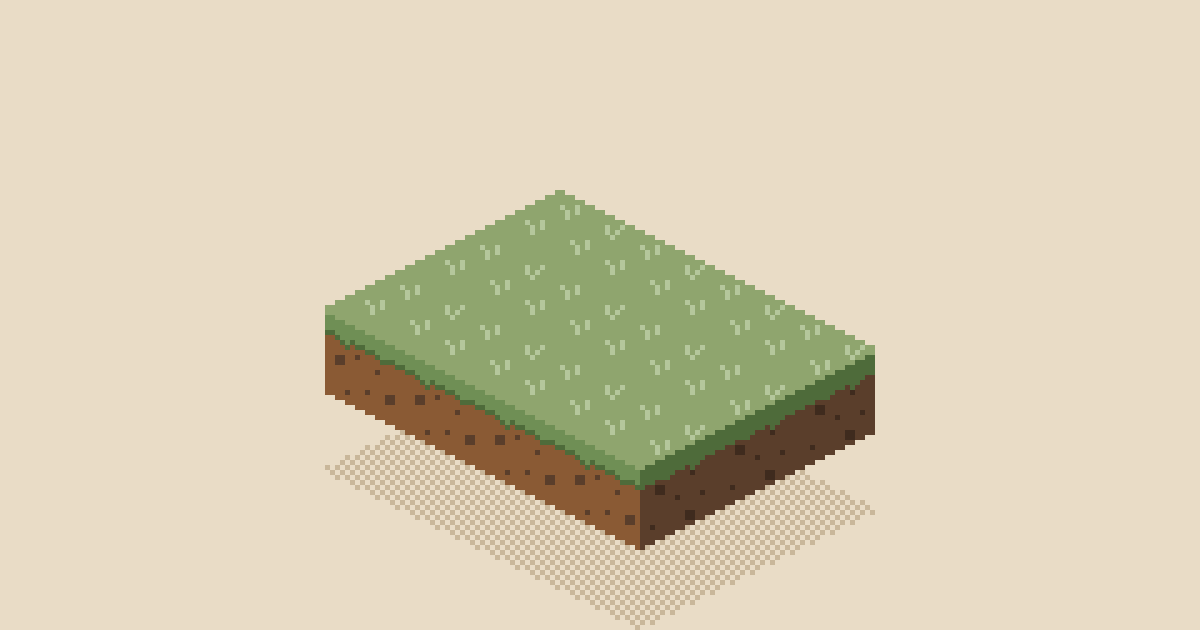
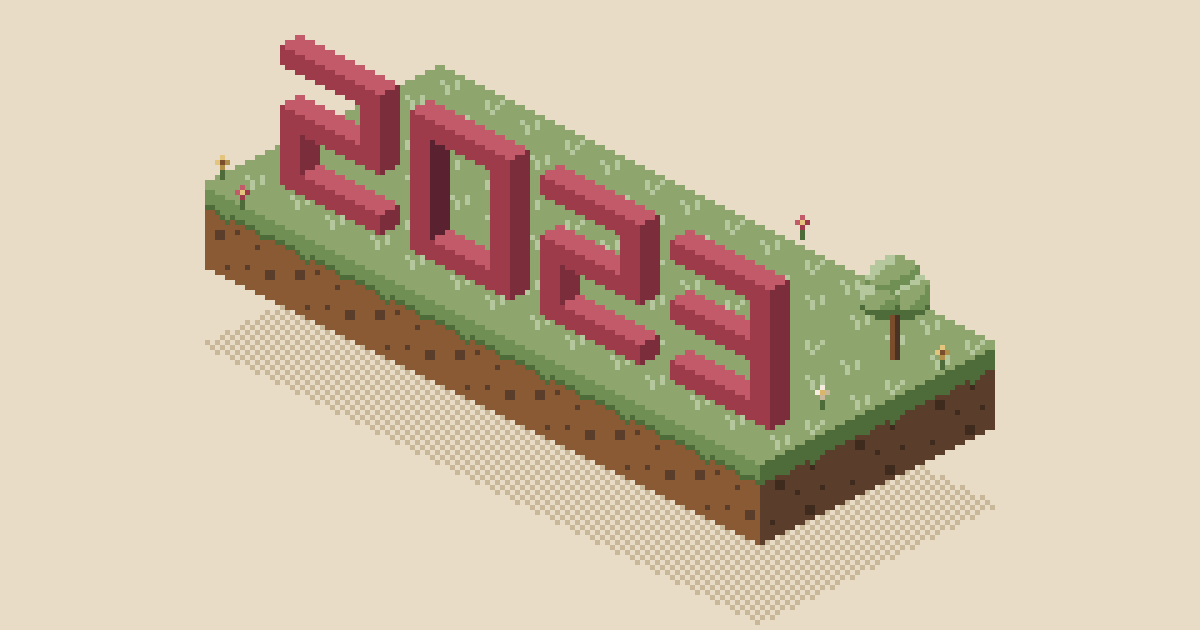
Draw the 2023 thumbnail and give every thumbnail a descriptive alt text
Claude-Session: https://claude.ai/code/session_01JAdJk87by9ULw3To2GaDwS

diff --git a/src/content/posts/2019-04-28-rest-in-a-nutshell.md b/src/content/posts/2019-04-28-rest-in-a-nutshell.md
@@ -3,7 +3,7 @@ title: REST in a Nutshell
 tags: REST architecture
 categories: architecture
 featured-image: /public/thumbnails/rest.png
-featured-image-alt: rest abstract feature
+featured-image-alt: A small floating stone plaza where two dark round clients each connect by a pale dashed road to one large red server building with a grid of lit windows.
 ---
 
 Years ago, the world wide web was simply a publishing platform where we were able to read and share documents through browsers. The web we now know has grown into something more than that. We can now search for information, book flights, make payments, and even automate our homes - basically any process we can think of. In other words, the web has grown into the largest application platform we've ever known.

diff --git a/src/content/posts/2020-12-12-collecting-and-monitoring-application-metrics-with-elastic-search-logstash-kibana-and-filebeat-ELK.md b/src/content/posts/2020-12-12-collecting-and-monitoring-application-metrics-with-elastic-search-logstash-kibana-and-filebeat-ELK.md
@@ -3,7 +3,7 @@ title: Collecting and Monitoring Application Metrics with Elasticsearch, Logstas
 tags: elasticsearch logstash kibana ELK
 categories: monitoring
 featured-image: /public/thumbnails/elk.png
-featured-image-alt: elk abstract feature
+featured-image-alt: A small dark server rack on a floating island of brown ore ground, linked by a red cable to a large red-framed dashboard showing a colorful bar chart, with a mine cart and gold ore nearby.
 description: Application metric is an important data point when it comes to working with production software. The ELK stack should help us efficiently collect these application metrics.
 ---
 

diff --git a/src/content/posts/2020-12-19-documenting-aspnet-core-3.1-api-projects-code-first-with-nswag.md b/src/content/posts/2020-12-19-documenting-aspnet-core-3.1-api-projects-code-first-with-nswag.md
@@ -3,7 +3,7 @@ title: Documenting ASP.NET Core 3.1 API Projects Code-First with NSwag
 tags: asp.net nswag swagger openapi
 categories: documentation
 featured-image: /public/thumbnails/nswag.png
-featured-image-alt: asp.net nswag abstract feature
+featured-image-alt: A tall stack of red slabs with a dark one in the middle, like collapsed and expanded API endpoints, on a floating wooden-floored island with a lectern and a bookcase.
 description: How to setup NSWag to generate Swagger UI and OpenAPI documentation.
 ---
 

diff --git a/src/content/posts/2021-01-02-setting-up-continuous-integration-for-an-aspnet-core-project-with-github-actions.md b/src/content/posts/2021-01-02-setting-up-continuous-integration-for-an-aspnet-core-project-with-github-actions.md
@@ -3,7 +3,7 @@ title: Setting Up Continuous Integration for an ASP.NET Core Project with Github
 tags: ci asp.net github actions
 categories: workflow
 featured-image: /public/thumbnails/github-actions.png
-featured-image-alt: github actions abstract feature
+featured-image-alt: Three red round stations in a row on a dark conveyor belt carrying crates, on a floating server-room floor.
 description: Automate unit testing and reporting for your ASP.NET Core Projects with Github Actions for continuous integration.
 ---
 

diff --git a/src/content/posts/2021-02-14-creating-uml-diagrams-in-visual-studio-code.md b/src/content/posts/2021-02-14-creating-uml-diagrams-in-visual-studio-code.md
@@ -3,7 +3,7 @@ title: Creating UML Diagrams in Visual Studio Code
 tags: UML diagrams
 categories: documentation
 featured-image: /public/thumbnails/uml.png
-featured-image-alt: uml abstract feature
+featured-image-alt: A pink heart on a stone pedestal beside a drafting board showing boxes, lines, a stick figure and an oval, on a floating construction site.
 description: Make your UML diagrams easier to manage by using a textual format. All with the help of a useful Visual Studio Code extension.
 ---
 

diff --git a/src/content/posts/2020-11-28-creating-unit-test-coverage-reports-for-aspnet-core-3.1-projects-with-coverlet-and-reportgenerator.md b/src/content/posts/2020-11-28-creating-unit-test-coverage-reports-for-aspnet-core-3.1-projects-with-coverlet-and-reportgenerator.md
@@ -3,7 +3,7 @@ title: Creating Unit Test Coverage Reports for ASP.NET Core 3.1 Projects with Co
 tags: asp.net report
 categories: testing
 featured-image: /public/thumbnails/coverlet.png
-featured-image-alt: coverlet abstract feature
+featured-image-alt: A wooden board showing six bars like lines of code, with green and pink marks beside them, on a small floating brick lab platform beside a table of glass flasks.
 description: Using Coverlet to generate ASP.NET Core project coverage.
 ---
 

diff --git a/src/content/posts/2020-12-05-JWT-for-authorization-in-microservice-architectured-systems.md b/src/content/posts/2020-12-05-JWT-for-authorization-in-microservice-architectured-systems.md
@@ -3,7 +3,7 @@ title: JWT for Authorization in Microservice-Architectured Systems
 tags: microservice JWT
 categories: security
 featured-image: /public/thumbnails/jwt.png
-featured-image-alt: jwt abstract feature
+featured-image-alt: A floating teal stone vault with a long three-part token in red, gold and brown joined by round dark studs, a gold key beside it, and a brazier and a banner at the corners.
 description: JWT's stateless nature provides a scalable authentication method.
 ---
 

diff --git a/src/content/posts/2023-07-16-taking-on-the-cloud-resume-challenge.md b/src/content/posts/2023-07-16-taking-on-the-cloud-resume-challenge.md
@@ -3,7 +3,7 @@ title: Taking on the Cloud Resume Challenge (with DevOps Mods)
 tags: aws github_actions terraform crc
 categories: devops
 featured-image: /public/thumbnails/cloud-resume.png
-featured-image-alt: cloud resume challenge results mock
+featured-image-alt: An open laptop and a phone both showing a résumé page, standing on a floating island made of cloud.
 description: I got my hands dirty and made a scalable website using AWS resources and DevOps tools.
 ---
 

diff --git a/src/content/posts/2021-04-06-using-caching-to-create-performant-apis.md b/src/content/posts/2021-04-06-using-caching-to-create-performant-apis.md
@@ -3,7 +3,7 @@ title: Using Caching to Create Performant APIs
 tags: caching 101
 categories: architecture
 featured-image: /public/thumbnails/caching.png
-featured-image-alt: uml abstract feature
+featured-image-alt: A small village with a dark office block on the left, a small red-roofed storehouse close beside it, and a large dark stack of discs far down a long road to the right.
 description: Create performant systems by utilizing caches into your architecture.
 ---
 

diff --git a/src/content/posts/2021-05-01-creating-a-graphql-endpoint-in-nestjs.md b/src/content/posts/2021-05-01-creating-a-graphql-endpoint-in-nestjs.md
@@ -3,7 +3,7 @@ title: Creating a GraphQL Endpoint in NestJS
 tags: graphql 101 nestjs
 categories: architecture
 featured-image: /public/thumbnails/graphql.png
-featured-image-alt: uml abstract feature
+featured-image-alt: A computer monitor showing a simple page layout, joined by a cable to a sculpture of gold balls linked by rods, on a floating red-carpet office island.
 description: Spin up a quick GraphQL endpoint for your UIs with NestJS.
 ---
 

diff --git a/src/content/posts/2023-12-26-2023-in-review.md b/src/content/posts/2023-12-26-2023-in-review.md
@@ -3,7 +3,7 @@ title: 2023 Year in review
 tags: year review 2023 aws projects
 categories: year in review
 featured-image: /public/thumbnails/2023-in-review.png
-featured-image-alt: 2023 year in review logo
+featured-image-alt: Four red block numerals spelling 2023 standing in a row on a small floating grass island with a few flowers and a tree.
 description: A look back to what I worked on and accomplished this year 2023.
 ---
 

diff --git a/src/content/posts/2021-01-09-running-an-aspnet-core-api-project-in-a-docker-container.md b/src/content/posts/2021-01-09-running-an-aspnet-core-api-project-in-a-docker-container.md
@@ -3,7 +3,7 @@ title: Running an ASP.NET Core API Project in a Docker Container
 tags: docker
 categories: containerization
 featured-image: /public/thumbnails/docker.png
-featured-image-alt: docker abstract feature
+featured-image-alt: A small red cargo boat carrying five stacked shipping containers, floating in a water basin on a stone harbor quay.
 description: Containerize your ASP.NET Core API project using Docker.
 ---
 
